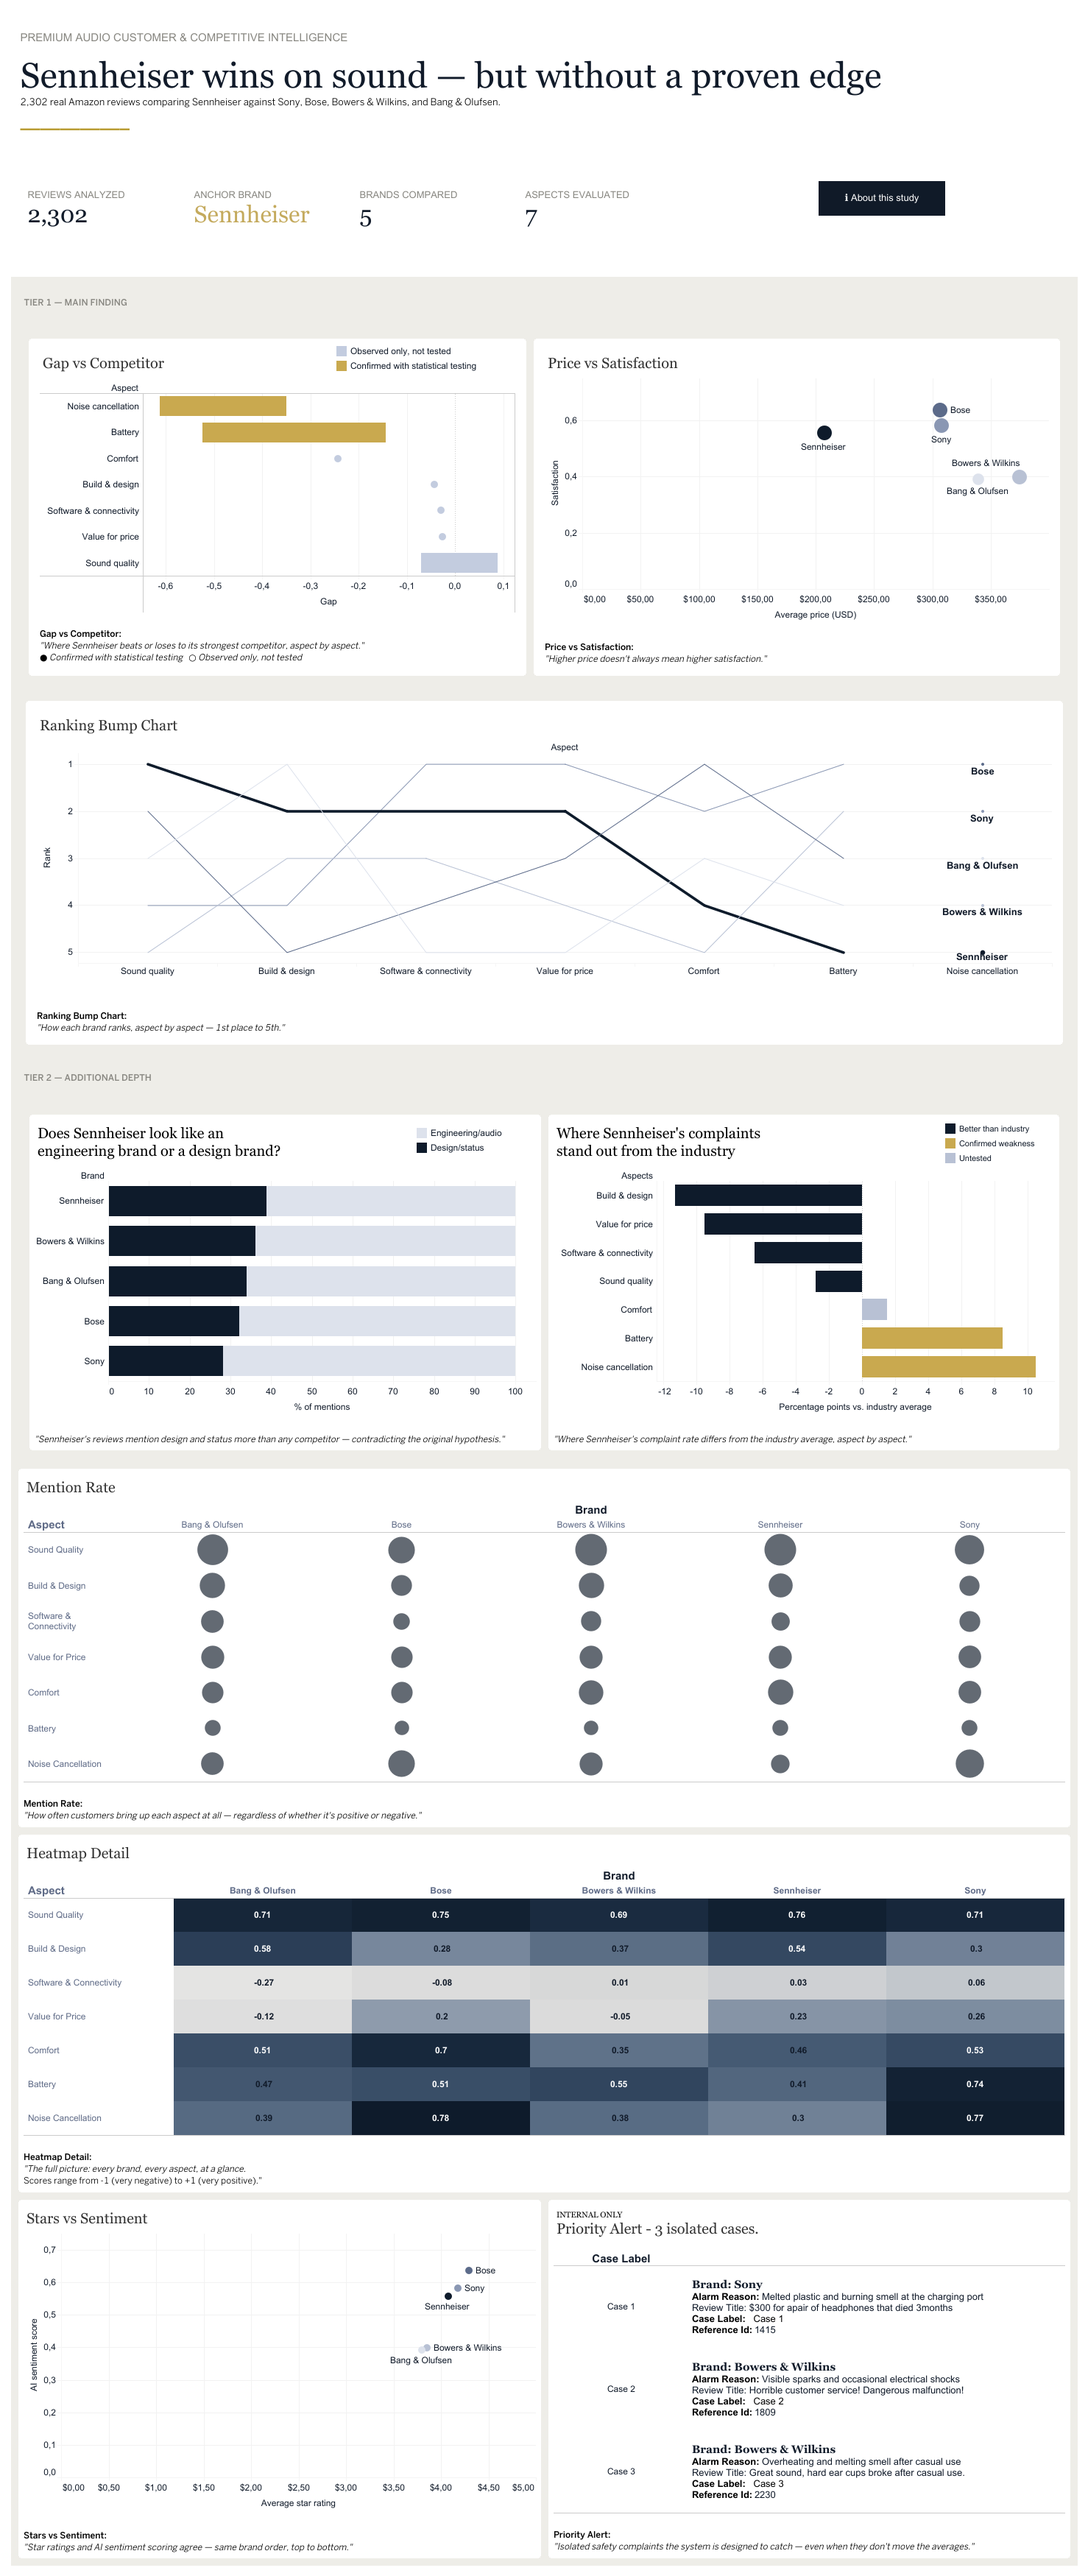
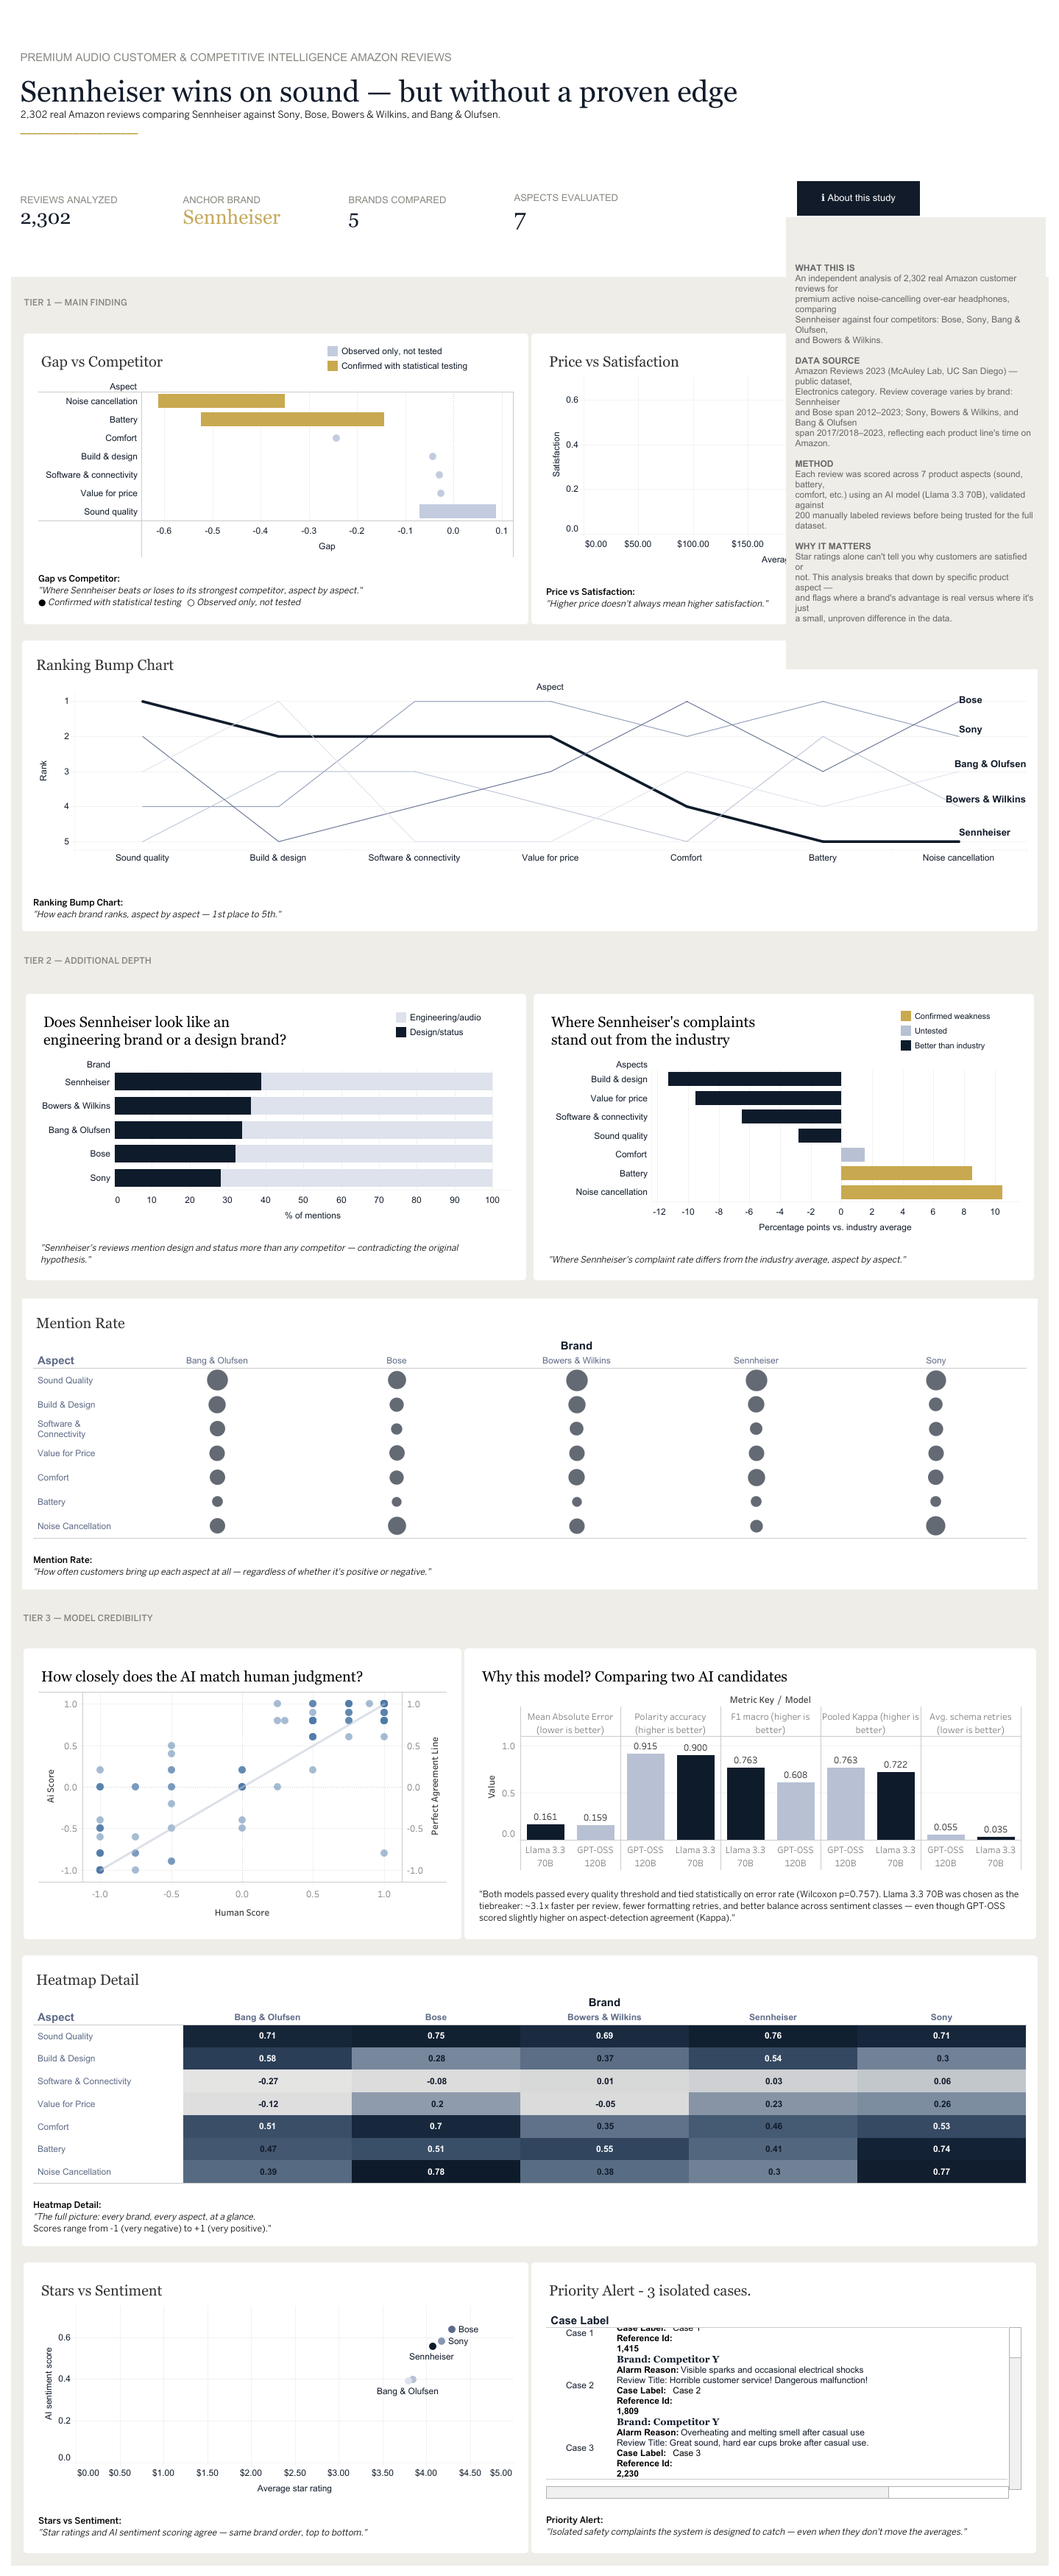
V1 close-out: add case study, dashboard/case-study links, V2 roadmap, updated dashboard preview

diff --git a/docs/case-study.md b/docs/case-study.md
@@ -1,0 +1,56 @@
+# Case Study: Customer & Competitive Intelligence for Amazon Reviews (V1)
+
+**A proof-of-concept AI system that turns raw product reviews into competitive intelligence — built end-to-end, from data pipeline to executive report.**
+
+[**→ View the live dashboard**](https://public.tableau.com/app/profile/fkeilers/viz/Customer_Competitive_Intelligence_Amazon_Reviews_V1/00_Dashboard_Customer_Competitive_Intelligence_Amazon_Reviews_V1)
+
+---
+
+## The business question
+
+If you sold headphones on Amazon, how would you know — with statistical confidence, not gut feeling — where you actually win and lose against your competitors?
+
+This project answers that question for a real market segment: premium active-noise-cancelling (ANC) headphones. Sennheiser was treated as the anchor brand (the hypothetical "client"), benchmarked against Bose, Sony, Bang & Olufsen, and Bowers & Wilkins, using 2,302 real Amazon reviews.
+
+The goal was never generic "sentiment analysis." It was a specific, decision-oriented question: *what do customers value, what do they criticize, and how does one brand's premium line compare to its direct competitors — with enough rigor that the answer would hold up to scrutiny from someone whose job is to be skeptical of it.*
+
+## Approach, at a glance
+
+The system follows CRISP-DM (the standard industry framework for data mining projects) end to end, on top of a Medallion (bronze/silver/gold) data architecture:
+
+1. **Data collection** — real reviews sourced from the McAuley Lab Amazon Reviews 2023 dataset (UC San Diego), filtered by product line and price floor to isolate the premium ANC segment specifically, not every headphone a brand has ever sold.
+2. **Ground truth** — 200 reviews (40 per brand) hand-labeled across 7 product aspects, used to validate the AI's accuracy before trusting its output on the full dataset.
+3. **Model bake-off** — two LLMs (Llama 3.3 70B and GPT-OSS 120B) evaluated against a 9-metric protocol defined *before* seeing either model's results, specifically to avoid the trap of picking whichever metric happens to favor a preferred outcome. Both models passed the required quality bar; the tie was broken on measured speed, reliability, and classification balance — not on assumptions.
+4. **Competitive analysis** — the full 2,302-review dataset scored across 7 aspects (sound quality, noise cancelling, battery, comfort, design, software/connectivity, value), with statistical significance testing applied to any finding presented as a firm conclusion.
+5. **Reporting** — an executive report and a public dashboard, built for a decision-maker, not a data scientist.
+
+## What the analysis actually found
+
+A few honest highlights — not the full report, but enough to show the kind of thinking behind it:
+
+- **The initial hypothesis about design positioning was wrong, and the data said so.** The working assumption was that Sennheiser ceded "design/status" territory to Bang & Olufsen and Bowers & Wilkins. The reviews showed the opposite: Sennheiser had the *highest* rate of design/comfort mentions of all five brands.
+- **"Sennheiser sounds better" didn't survive a proper significance test.** An early read of the data suggested a sound-quality edge for Sennheiser. Once tested with bootstrap confidence intervals — the same standard applied to every other claim in the report — that edge disappeared. All five brands are statistically tied on sound quality. Reporting the *correction*, not just the initial (wrong) read, was a deliberate choice.
+- **Two consistent, real weaknesses did hold up under testing:** battery life and noise cancelling, both ranked last of five brands, with the ANC gap being statistically significant specifically against the two ANC leaders in this sample.
+- **A keyword-based safety alert detector, calibrated against real data, surfaced 3 isolated cases worth a closer look** out of 2,302 reviews — findings that don't move any statistical average, but that a careful audit process is designed to catch anyway. See the dashboard's Priority Alert panel for detail; brand identities are withheld there, since a single uncorroborated review isn't a verified claim against any specific company.
+
+## What this project is honest about
+
+This is the part most portfolio pieces skip, and it's arguably the most important part of this one:
+
+- **The sample size for four of five brands is a sample of unknown population size**, not a census — treated with confidence intervals throughout, never presented as more certain than it is.
+- **The ground truth was labeled by a single annotator** (the project's author). That's an accepted limitation for an academic deliverable; it would not be an accepted standard for a paid commercial engagement without inter-annotator agreement testing.
+- **The safety alert detector is keyword-based**, which means it has a measurable false-positive rate (caught and corrected during calibration) but an *unmeasurable* false-negative rate — a real review describing a real hazard, worded outside the keyword list, would simply not be flagged. This is a known, documented limitation, not a hidden one — and it's the first item on the V2 roadmap below.
+
+## Why the full pipeline isn't in this repository
+
+This repository intentionally includes only the data exploration and collection stage (notebooks `00`–`01`) plus the SQL scripts. The reusable engine — the multi-provider AI pipeline, the model validation protocol, the statistical analysis, and the dashboard-prep logic — lives in a private repository.
+
+That's not an oversight. The engine is largely category-agnostic: point it at a different product vertical, adjust the prompt schema, and the same validation rigor applies. That reusability is the actual asset here, and publishing it in full would give away the thing this project is meant to demonstrate the *value* of, not the thing itself. See the main README for more on this reasoning.
+
+## What's next
+
+This is treated as a living system, not a closed deliverable — see the **Roadmap** section in the main README for what's already planned for V2.
+
+---
+
+*This project is not affiliated with, endorsed by, or sponsored by Amazon.com, Inc. Dataset: Amazon Reviews 2023 (McAuley Lab, UC San Diego), used under CC BY-SA 4.0 license.*

diff --git a/README.md b/README.md
@@ -5,6 +5,9 @@
 > Case study developed during the Data Analytics & AI program, WBS Coding School — now the foundation of a reusable decision-intelligence system.
 > **V1** — see [Limitations & next steps](#limitations--next-steps) for what V2 will include.
 
+📊 **[View the live dashboard →](https://public.tableau.com/app/profile/fkeilers/viz/Customer_Competitive_Intelligence_Amazon_Reviews_V1/00_Dashboard_Customer_Competitive_Intelligence_Amazon_Reviews_V1)**
+📄 **[Read the case study →](docs/case-study.md)**
+
 ## What this repository is — and isn't
 
 This repository shows how I approach a problem: sourcing and understanding real-world data with rigor, before building anything on top of it. It is **not** a full code walkthrough of the analysis engine.
@@ -12,6 +15,25 @@ This repository shows how I approach a problem: sourcing and understanding real-
 The AI pipeline, the model-validation protocol, the statistical significance testing, and the dashboard-preparation logic are part of a reusable system I designed to turn large volumes of customer reviews into competitive intelligence — for this case, and adaptable to others. That system is the product, not the demonstration, so its code lives outside this public repository.
 
 What you'll find here instead: the data-foundation work (`00`, `01`), the SQL used to clean and structure it, and a full account — in writing — of the methodology, the findings, and the rigor behind the rest of the system. If you want to see the system in action, the [live dashboard](#dashboard) is public. If you want to discuss applying it to your own data, [reach out](#author).
+
+## Roadmap — What's Next
+
+This project is versioned deliberately (V1, with V2 already scoped) because it's treated
+as a living system rather than a closed academic deliverable. Two improvements are
+already prioritized for the next iteration:
+
+- **Schema-based safety detection.** V1's critical-alert detector is keyword-based —
+  effective enough to catch real issues (see case study), but with a blind spot it can't
+  measure: a genuine safety concern worded outside the keyword list wouldn't be flagged.
+  V2 replaces this with a field evaluated by the AI model on every review during normal
+  analysis, closing that specific gap.
+- **Dashboard restructuring.** The current dashboard packs nine visualizations into a
+  single scrolling view. It holds up under real scrutiny, but doesn't meet the
+  "understand it in five seconds" bar that a public-facing dashboard should. V2 splits it
+  into a Summary view and a Full Detail view.
+
+Neither of these changes the underlying methodology — the validation rigor described in
+the case study carries forward unchanged.
 
 ## The business question
 
